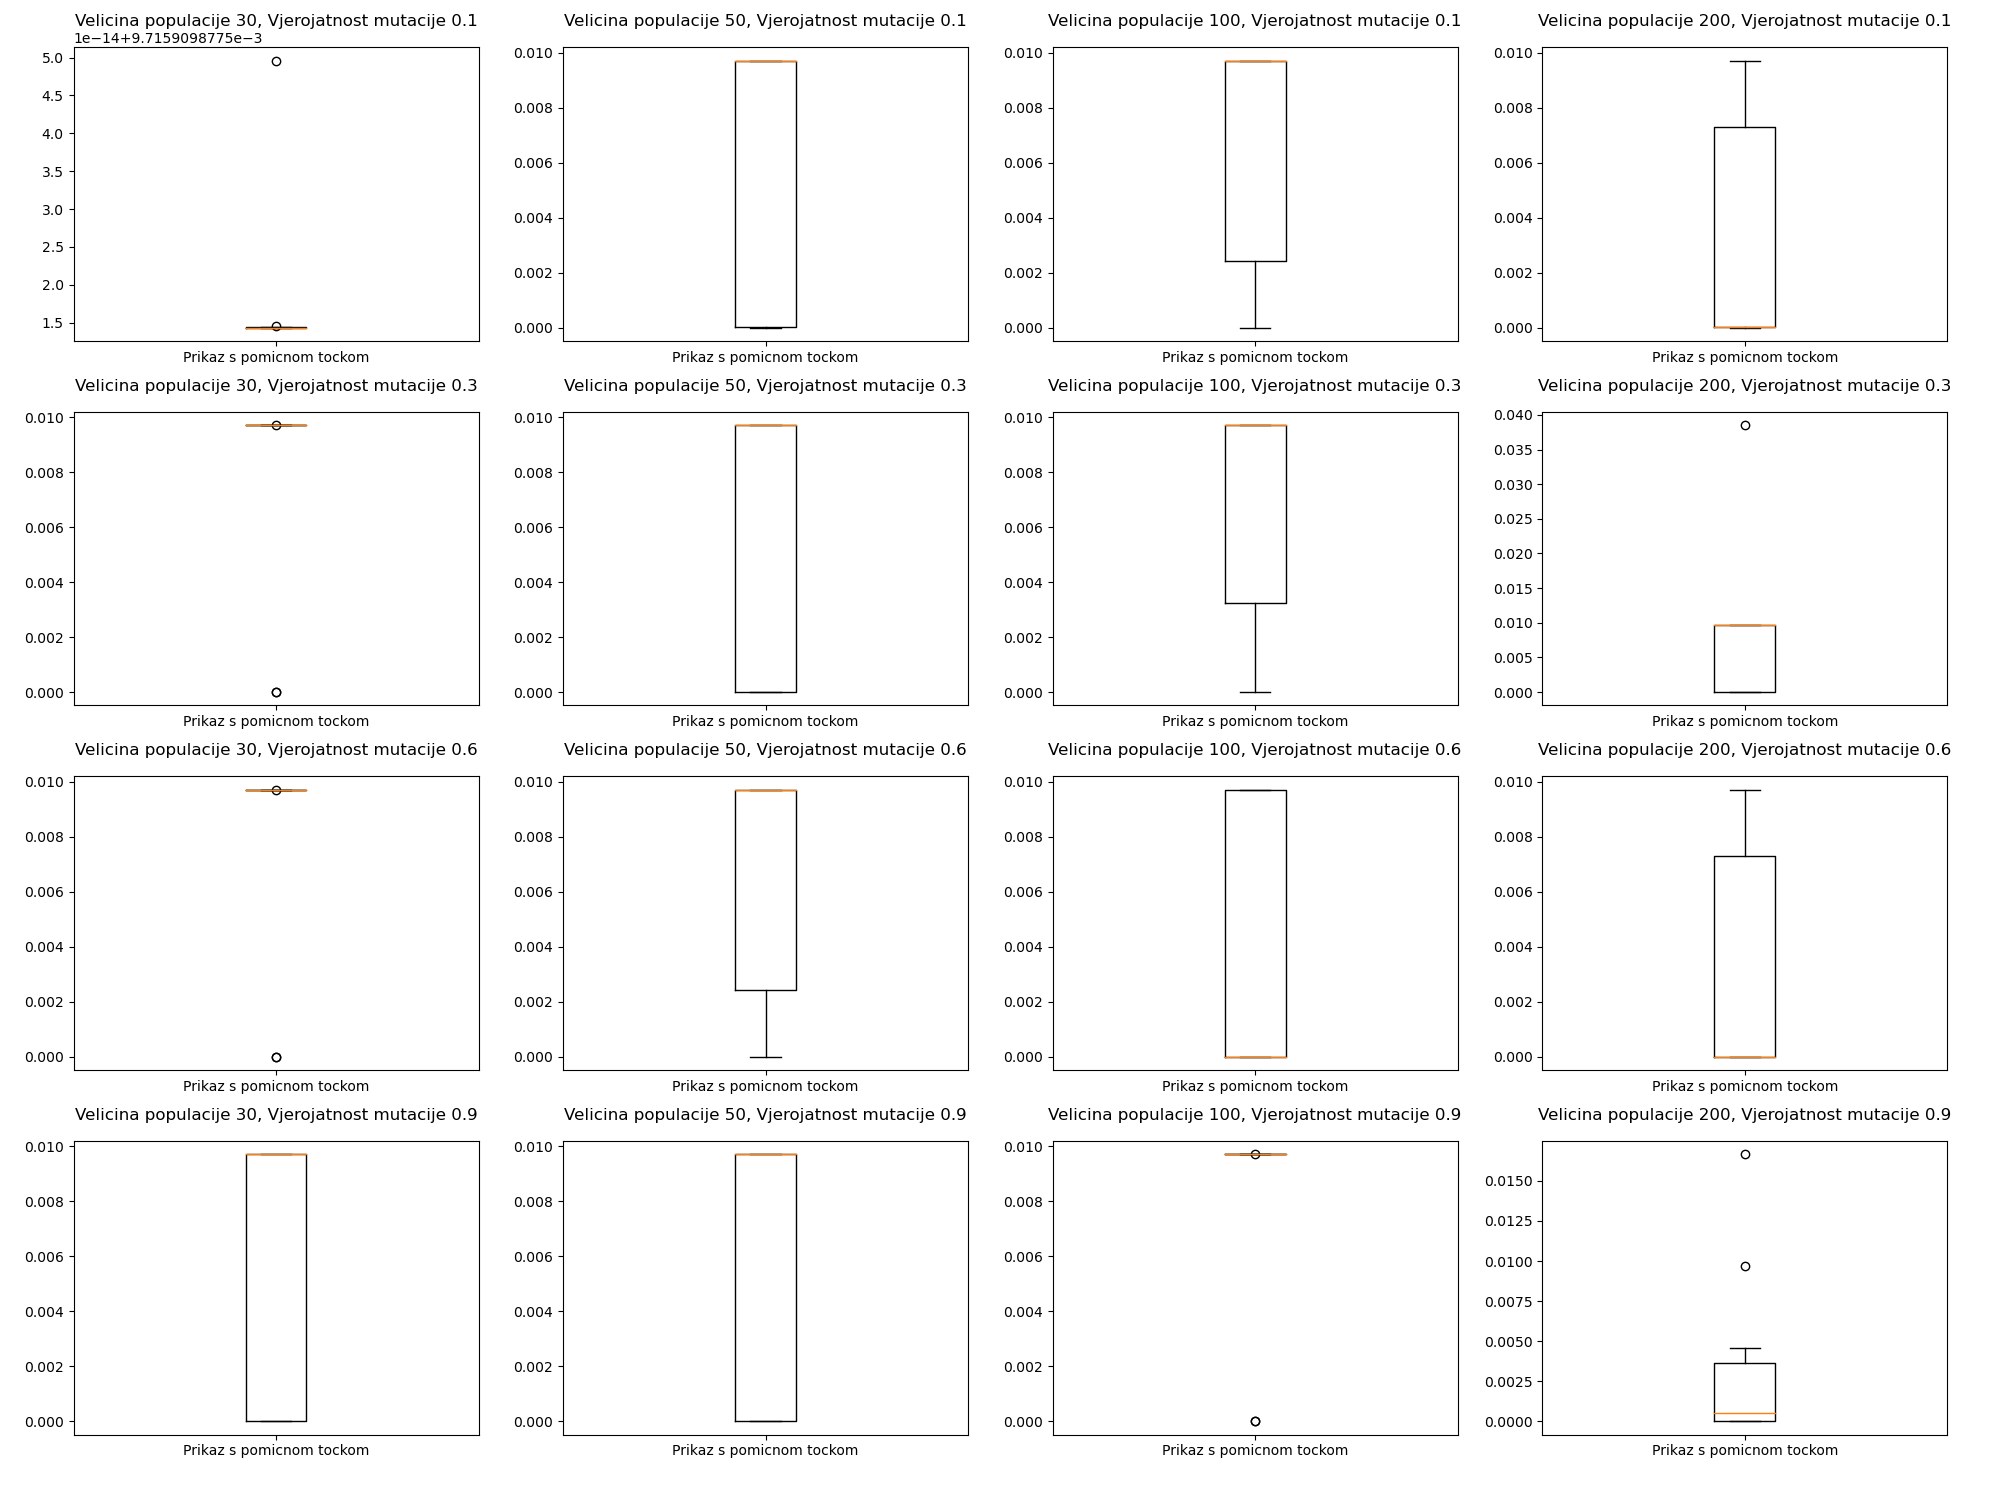
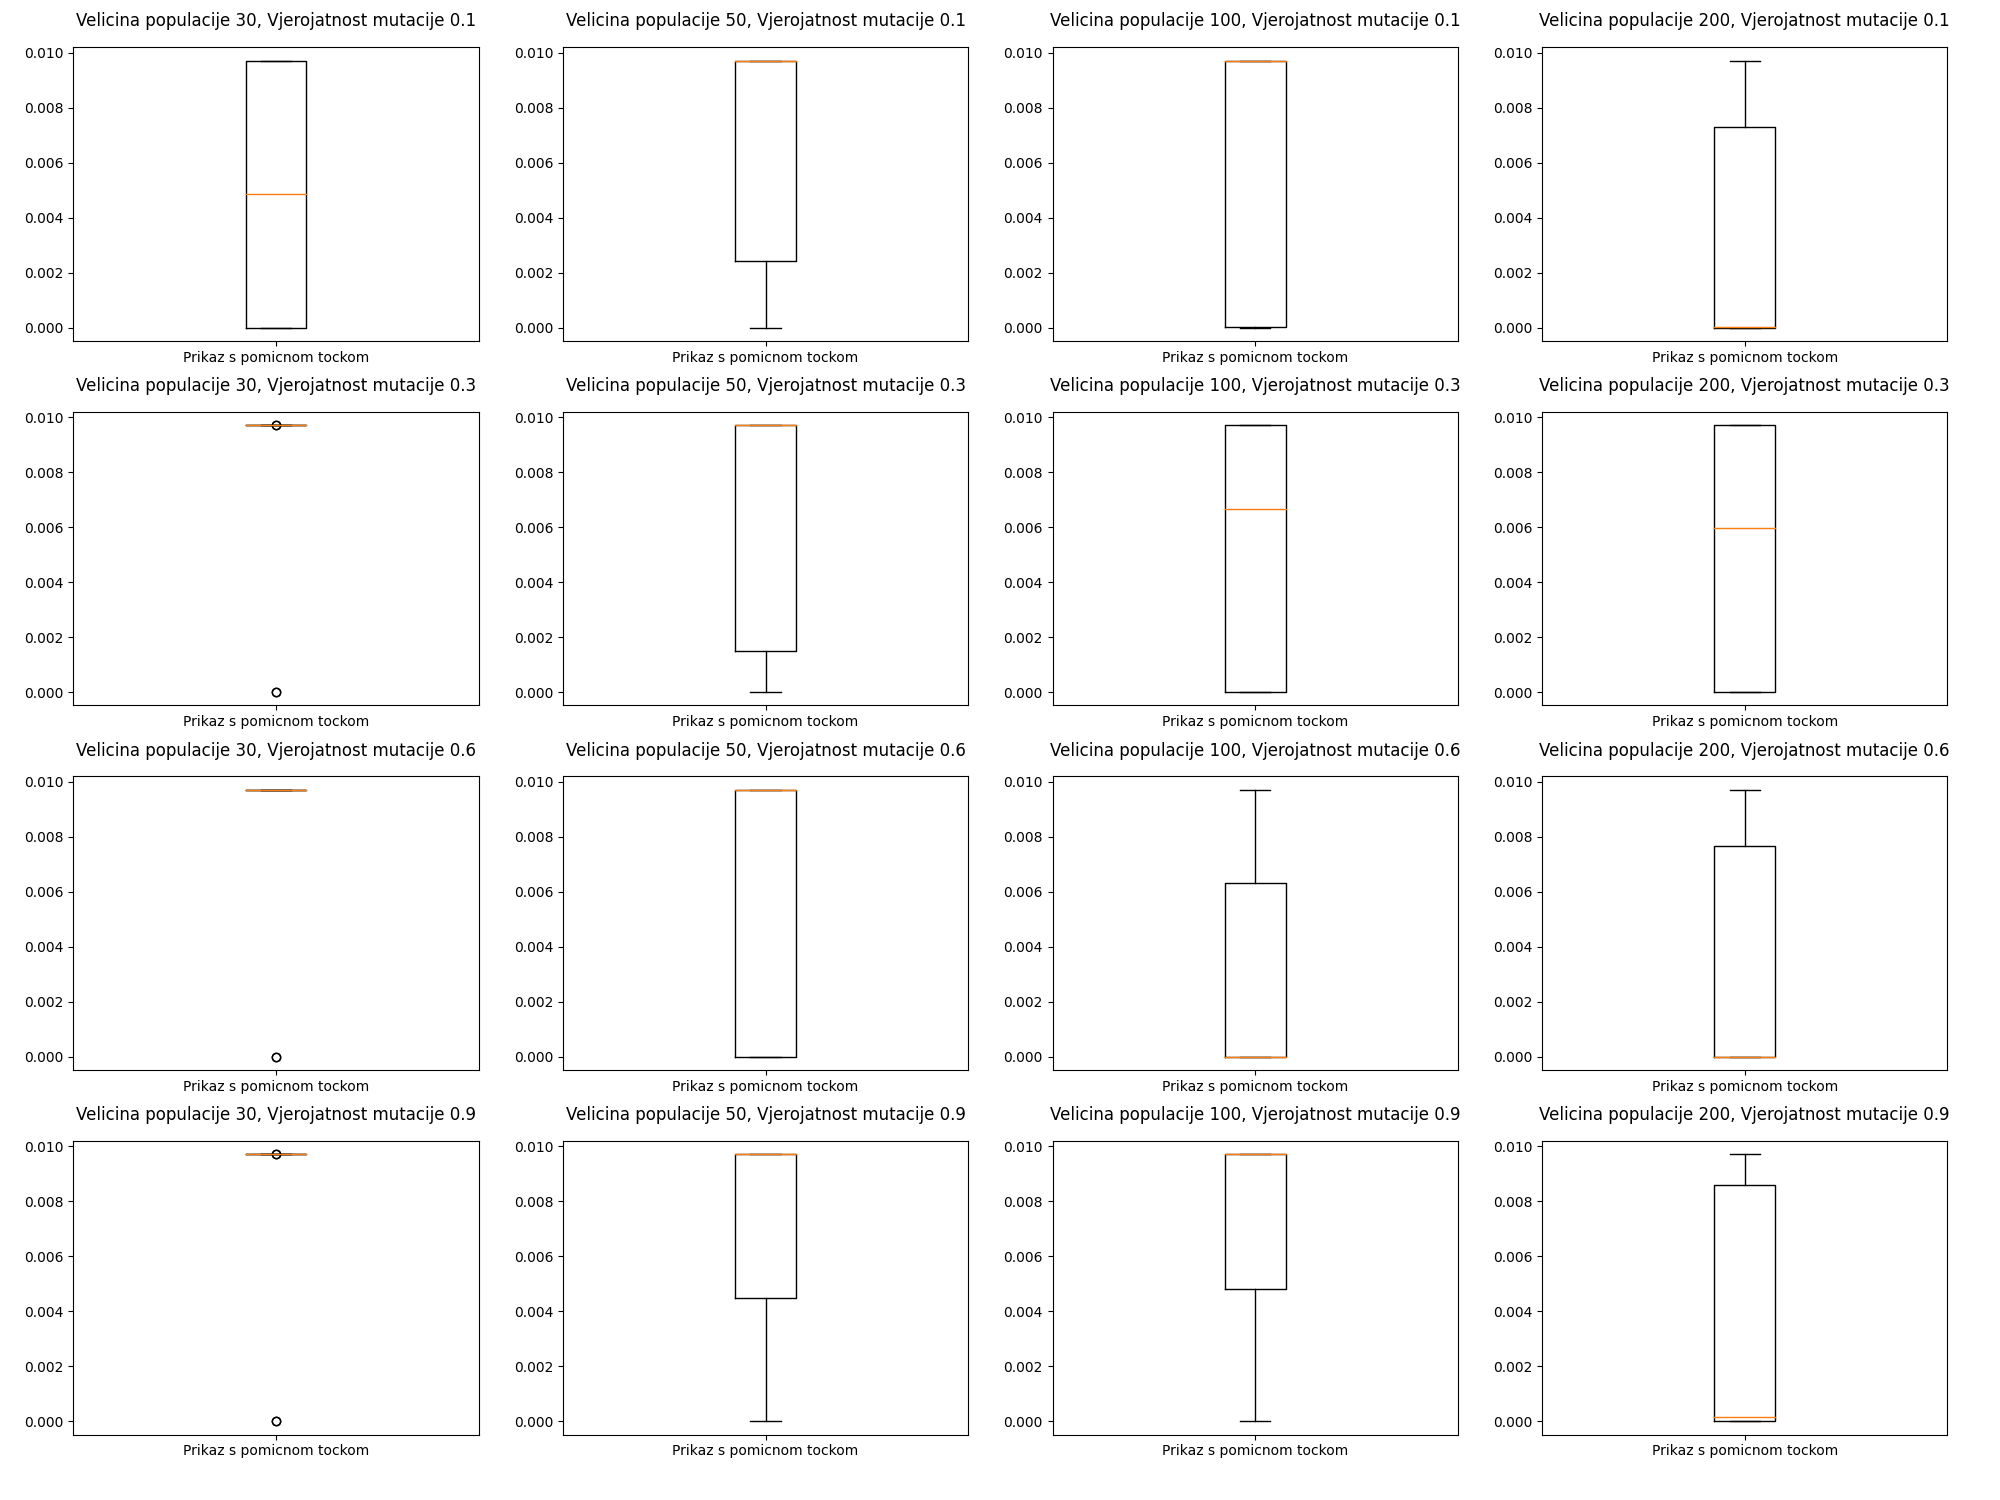
Fixed task 5

diff --git a/lab4/genetics.py b/lab4/genetics.py
@@ -99,6 +99,7 @@ class GeneticAlgorithm:
                         print()
                     print(
                         "Found a solution with absolute value less than 1e-6, terminating.")
+                    self.func.reset()
                     return self.solution(population)
             i += 1
             if self.func.no_calls > self.num_func_calls:
@@ -107,7 +108,7 @@ class GeneticAlgorithm:
                 self.func.reset()
                 return self.solution(population)
 
-            if i % 100 == 0 and self.verbose:
+            if self.func.no_calls % 1000 == 0 and self.verbose:
                 print('Iteration: {}, Current number of function evaluations: {}'.format(
                     i, self.func.no_calls))
 
@@ -178,6 +179,18 @@ def roulette_selection(elitism=True, no_elites=1):
 
         return new_population, comb_population
 
+    return selection
+
+
+def tournament_selection(k = 3):
+    def selection(population):
+        selected = np.random.choice(population, k, replace=False)
+        selected_sorted = sorted(selected, key=lambda x: x.fitness)
+        comb_population = [[selected_sorted[0], selected_sorted[1]]]
+        population.remove(selected_sorted[-1])
+
+        return population, comb_population
+    
     return selection
 
 
@@ -293,7 +306,7 @@ def print_task_num(num):
     print()
 
 
-def zadatak_1(f1, f3, f6, f7, no_experiments, verbose, plot_name, population_size=100, num_func_calls=1e5):
+def zadatak_1(f1, f3, f6, f7, no_experiments, verbose, plot_name, population_size=100, num_func_calls=1e5, show_plot=True):
     ######################################## zadatak  1 ########################################
 
     print_task_num(1)
@@ -364,10 +377,11 @@ def zadatak_1(f1, f3, f6, f7, no_experiments, verbose, plot_name, population_siz
             axes[axes_coords[0]][axes_coords[1]].boxplot([binary_solutions[i], float_solutions[i]], labels=[
                 'Binarni prikaz', 'Prikaz s pomicnom tockom'])
         plt.savefig(plot_name)
-        plt.show()
+        if show_plot:
+            plt.show()
 
 
-def zadatak_2(f6, f7, no_experiments, verbose, plot_name, population_size=100, num_func_calls=1e5):
+def zadatak_2(f6, f7, no_experiments, verbose, plot_name, population_size=100, num_func_calls=1e5, show_plot=True):
     ######################################## zadatak  2 ########################################
 
     print_task_num(2)
@@ -446,10 +460,11 @@ def zadatak_2(f6, f7, no_experiments, verbose, plot_name, population_size=100, n
                 axes[j][i].boxplot([binary_solutions[j][dim], float_solutions[j][dim]], labels=[
                                    'Binarni prikaz', 'Prikaz s pomicnom tockom'])
         plt.savefig(plot_name)
-        plt.show()
+        if show_plot:
+            plt.show()
 
 
-def zadatak_3(f6, f7, no_experiments, verbose, plot_name, population_size=100, num_func_calls=1e5):
+def zadatak_3(f6, f7, no_experiments, verbose, plot_name, population_size=100, num_func_calls=1e5, show_plot=True):
     ######################################## zadatak  3 ########################################
 
     print_task_num(3)
@@ -527,10 +542,11 @@ def zadatak_3(f6, f7, no_experiments, verbose, plot_name, population_size=100, n
                 axes[j][i].boxplot([binary_solutions[j][dim], float_solutions[j][dim]], labels=[
                                    'Binarni prikaz', 'Prikaz s pomicnom tockom'])
         plt.savefig(plot_name)
-        plt.show()
+        if show_plot:
+            plt.show()
 
 
-def zadatak_4(f6, no_experiments, verbose, plot_name, num_func_calls=1e5):
+def zadatak_4(f6, no_experiments, verbose, plot_name, num_func_calls=1e5, show_plot=True):
     ######################################## zadatak  4 ########################################
 
     print_task_num(4)
@@ -584,23 +600,23 @@ def zadatak_4(f6, no_experiments, verbose, plot_name, num_func_calls=1e5):
                 axes[j][i].boxplot([float_solutions[population_size][mutation_prob]], labels=[
                                    'Prikaz s pomicnom tockom'])
         plt.savefig(plot_name)
-        plt.show()
+        if show_plot:
+            plt.show()
 
 
-def zadatak_5(f6, no_experiments, verbose, plot_name, population_size=100, num_func_calls=1e5):
+def zadatak_5(f6, no_experiments, verbose, plot_name, population_size=100, num_func_calls=1e5, show_plot=True):
     ######################################## zadatak  4 ########################################
 
     print_task_num(5)
-    no_elites_values = [
-        int((i / 4) * population_size) - 2 for i in range(1, 5)]
-    float_solutions = {size: [] for size in no_elites_values}
+    tournament_sizes = [3, 5, 15, 30]
+    float_solutions = {t_size: [] for t_size in tournament_sizes}
     limits = [-50, 150]
 
     for experiment in range(no_experiments):
         print("Experiment {}: ".format(experiment))
-        for no_elites in no_elites_values:
-            print('Pokrecem rijesavanje za broj elita {}'.format(
-                no_elites))
+        for t_size in tournament_sizes:
+            print('Pokrecem rijesavanje za velicinu turnira {}'.format(
+                t_size))
 
             print('Prikaz s pomicnom tockom')
             binary_representation = False
@@ -610,17 +626,16 @@ def zadatak_5(f6, no_experiments, verbose, plot_name, population_size=100, num_f
                                                           limits=limits, precision=4),
                 num_func_calls=num_func_calls,
                 func=f6,
-                selection=roulette_selection(
-                    elitism=True, no_elites=no_elites),
+                selection=tournament_selection(t_size),
                 combination=heuristic_cross_float(),
                 mutation=mutation(
-                    0.1, binary_representation=binary_representation, limits=limits),
+                    0.4, binary_representation=binary_representation, limits=limits),
                 solution=solution(),
                 verbose=verbose)
 
             best_float = genetic.evolution()
             print('Najbolji: {}'.format(best_float))
-            float_solutions[no_elites].append(best_float.fitness)
+            float_solutions[t_size].append(best_float.fitness)
 
             print('\n########################################\n')
 
@@ -628,15 +643,16 @@ def zadatak_5(f6, no_experiments, verbose, plot_name, population_size=100, num_f
         fig, axes = plt.subplots(2, 2)
         fig.set_size_inches(12, 8)
         fig.suptitle('Rezultati nakon {} eksperimenata za svaku funkciju\n\
-                      Parametri za prikaz s pomicnom tockom: population_size={}, no_elites={}, cross_alg=heuristic_cross_float, mutation_prob=0.1'.format(no_experiments, population_size, no_elites_values))
-        for i, no_elites in enumerate(no_elites_values):
+                      Parametri za prikaz s pomicnom tockom: population_size={}, tournament_sizes={}, cross_alg=heuristic_cross_float, mutation_prob=0.1'.format(no_experiments, population_size, tournament_sizes))
+        for i, t_size in enumerate(tournament_sizes):
             axes_coords = [0, i] if i < 2 else [1, i - 2]
             axes[axes_coords[0]][axes_coords[1]].set_title(
-                'Broj elita {}'.format(no_elites))
-            axes[axes_coords[0]][axes_coords[1]].boxplot([float_solutions[no_elites]], labels=[
+                'Velicina turnira {}'.format(t_size))
+            axes[axes_coords[0]][axes_coords[1]].boxplot([float_solutions[t_size]], labels=[
                 'Prikaz s pomicnom tockom'])
         plt.savefig(plot_name)
-        plt.show()
+        if show_plot:
+            plt.show()
 
 
 def find_minima_demo(f7, verbose=True):
@@ -662,6 +678,19 @@ def find_minima_demo(f7, verbose=True):
     input('Press any key to continue')
 
 
+def run_all_experiments(f1, f3, f6, f7):
+    zadatak_1(f1, f3, f6, f7, no_experiments=10, verbose=False,
+                plot_name="prvi.png", show_plot=False)
+    zadatak_2(f6, f7, no_experiments=10, verbose=False,
+                plot_name="drugi.png", show_plot=False)
+    zadatak_3(f6, f7, no_experiments=10, verbose=False,
+                plot_name="treci.png", show_plot=False)
+    zadatak_4(f6, no_experiments=10, verbose=False,
+                plot_name="cetvrti.png", show_plot=False)
+    zadatak_5(f6, no_experiments=10, verbose=False,
+                plot_name="peti.png", show_plot=False)
+
+
 def main():
     f1 = TargetFunction(lambda x1, x2: 100 * (x2 - x1 ** 2)
                         ** 2 + (1 - x1) ** 2)
@@ -672,7 +701,7 @@ def main():
     f7 = TargetFunction(lambda *args: sum(np.square(args)) **
                         0.25 * (1 + np.sin(50 * (sum(np.square(args))) ** 0.1) ** 2))
 
-    find_minima_demo(f6, verbose=True)
+    """find_minima_demo(f6, verbose=True)
     zadatak_1(f1, f3, f6, f7, no_experiments=3, verbose=False,
               plot_name="prvi_demo.png", population_size=50, num_func_calls=1e4)
     zadatak_2(f6, f7, no_experiments=3, verbose=False,
@@ -682,8 +711,9 @@ def main():
     zadatak_4(f6, no_experiments=3, verbose=False,
               plot_name="cetvrti_demo.png", num_func_calls=1e4)
     zadatak_5(f6, no_experiments=3, verbose=False,
-              plot_name="peti_demo.png", population_size=50, num_func_calls=1e4)
+              plot_name="peti_demo.png", population_size=50, num_func_calls=1e4)"""
 
+    run_all_experiments(f1, f3, f6, f7)
 
 if __name__ == "__main__":
     main()
